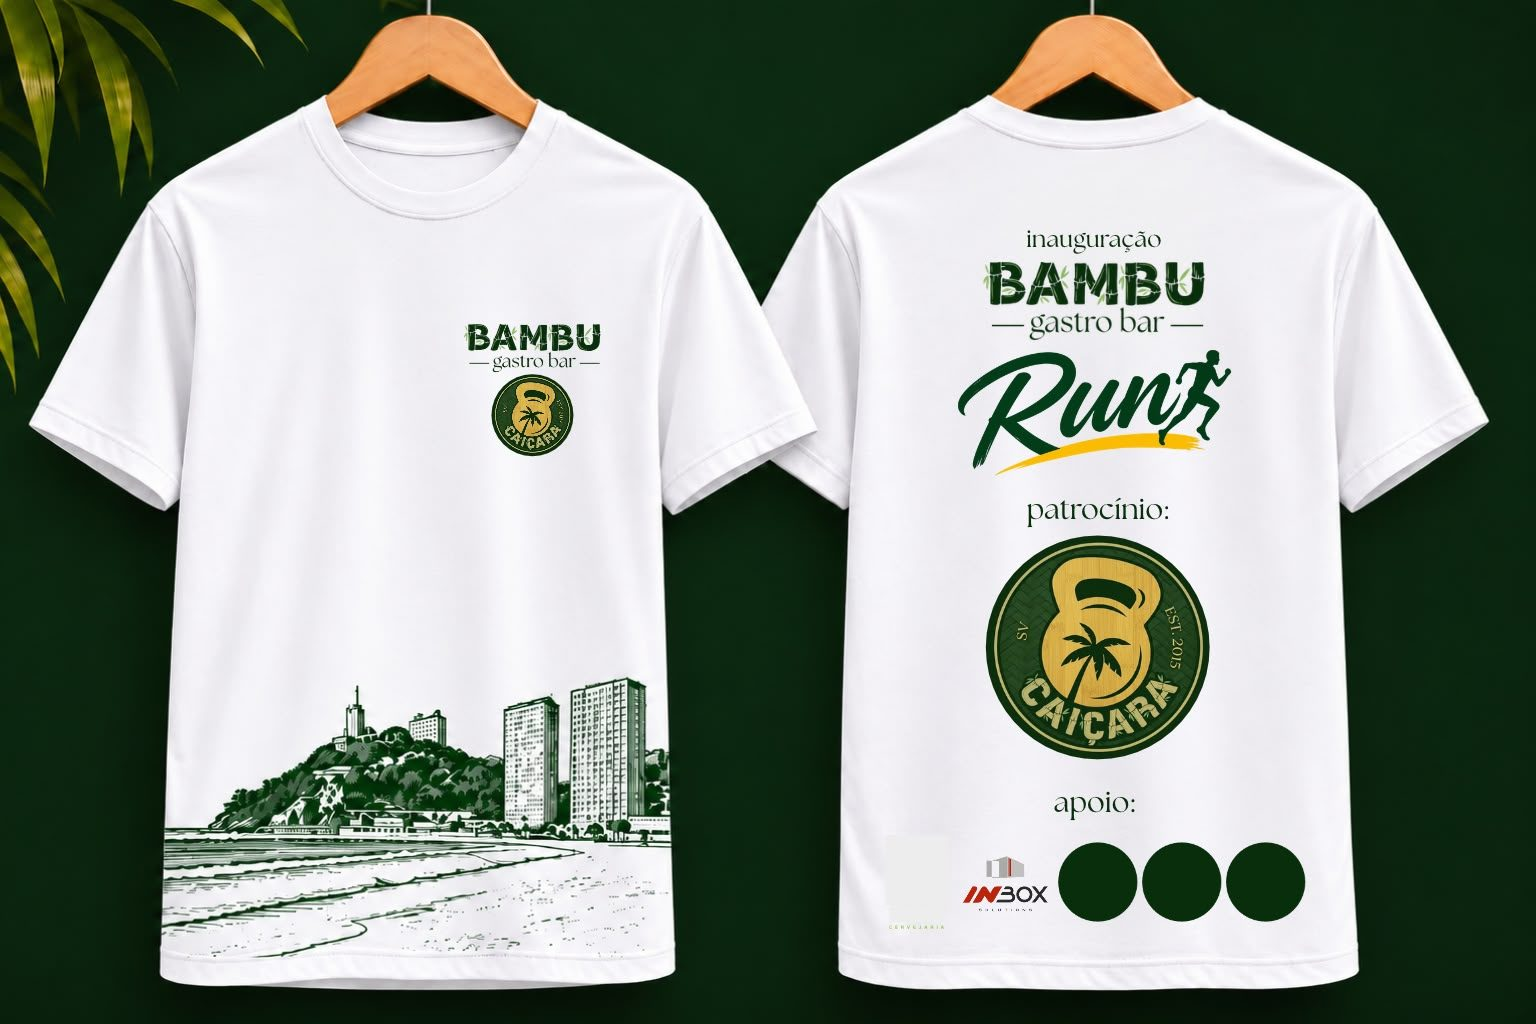
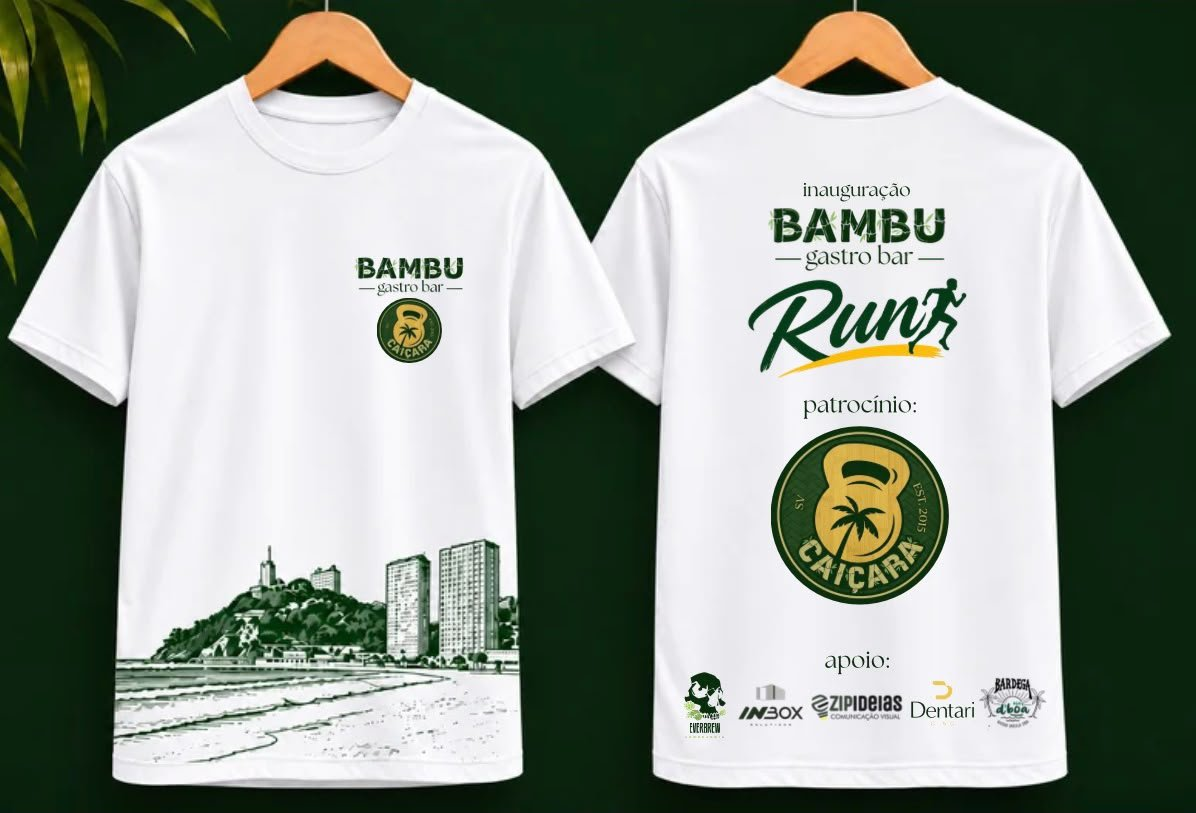
feat(bambu): endereço, pagode na chegada, estoque e medidas da camiseta, apoiadores
Quiosque 47B da Av. Ayrton Senna com link pro mapa. Camiseta dry fit com etiqueta
de medidas; estoque P20 M30 G20 GG10 (pendente segura 2h), tamanho esgotado bloqueado.
Brinde: chope da Everbrew. Mockup novo e faixa de apoio com os 5 apoiadores.

diff --git a/src/app/bambu/page.tsx b/src/app/bambu/page.tsx
@@ -1,11 +1,24 @@
 import type { Metadata } from "next";
 import Image from "next/image";
 import { InscricaoBambuForm } from "@/components/bambu/InscricaoBambuForm";
-import { camisetaAberta, corridaBambu } from "@/lib/corrida-bambu";
+import { camisetaAberta, corridaBambu, disponiveis, listInscricoes, tamanhos } from "@/lib/corrida-bambu";
 import fotoCamiseta from "../../../public/images/bambu/camiseta.jpg";
 import logoBambu from "../../../public/images/bambu/logo-bambu-gastro.png";
 import fotoNoite from "../../../public/images/bambu/noite.jpg";
 import logoCaicara from "../../../public/images/logo.png";
+import apoioBardega from "../../../public/images/bambu/apoio-bardega.png";
+import apoioDentari from "../../../public/images/bambu/apoio-dentari.png";
+import apoioEverbrew from "../../../public/images/bambu/apoio-everbrew.png";
+import apoioInbox from "../../../public/images/bambu/apoio-inbox.png";
+import apoioZip from "../../../public/images/bambu/apoio-zipideias.png";
+
+const APOIO = [
+  { src: apoioEverbrew, alt: "Everbrew Cervejaria" },
+  { src: apoioInbox, alt: "Inbox Solutions" },
+  { src: apoioZip, alt: "Zip Ideias Comunicação Visual" },
+  { src: apoioDentari, alt: "Dentari Clinic" },
+  { src: apoioBardega, alt: "Quiosque Bardega D'Boa" },
+];
 
 // A venda da camiseta depende do preço, do Pix e da data: confere a cada visita.
 export const dynamic = "force-dynamic";
@@ -13,27 +26,28 @@ export const dynamic = "force-dynamic";
 export const metadata: Metadata = {
   title: "Corrida de inauguração do Bambu Gastro Bar | Inscrição grátis",
   description:
-    "Corrida leve de inauguração do Bambu Gastro Bar com a Caiçara Fit: sexta, 27/11, às 20h, no Itararé, em São Vicente. Grátis, é só se inscrever.",
+    "Corrida leve de inauguração do Bambu Gastro Bar com a Caiçara Fit: sexta, 27/11, às 20h, Av. Ayrton Senna, quiosque 47B, Itararé, São Vicente. Grátis, com pagode do Luty RJ na chegada.",
   alternates: { canonical: "/bambu" },
   openGraph: {
     type: "website",
     locale: "pt_BR",
     url: "/bambu",
     title: "Corrida de inauguração do Bambu Gastro Bar",
-    description: "Sexta, 27/11, 20h, no Itararé. Grátis. Corre com a Caiçara Fit e fica pra festa.",
+    description: "Sexta, 27/11, 20h, quiosque 47B do Itararé. Grátis, com pagode na chegada.",
     images: [{ url: "/images/bambu/noite.jpg", width: 1200, height: 1600, alt: "Bambu lotado à noite, de frente pro mar" }],
   },
 };
 
 // Cores do Bambu Gastro Bar: verde-mata #09300b (fundo do logo), amarelo do bambu #f0c94c,
 // verde-folha #8dbb55, creme #fdf3c4. A pulseira de evento é o elemento que marca a página.
-const PULSEIRA = ["Grátis", "Sexta 27/11", "20h", "Itararé"];
+const PULSEIRA = ["Grátis", "Sexta 27/11", "20h", "Quiosque 47B", "Pagode na chegada"];
 
-export default function BambuPage() {
-  const { dateLabel, hora, local, percurso } = corridaBambu;
+export default async function BambuPage() {
+  const { dateLabel, hora, local, mapa, chegada, percurso } = corridaBambu;
   const quando = `${dateLabel}, às ${hora}`;
-  const { valor, pedidoAteLabel } = corridaBambu.camiseta;
+  const { valor, pedidoAteLabel, tecido, brinde, medidas } = corridaBambu.camiseta;
   const vendendo = camisetaAberta() && valor !== null;
+  const livres = disponiveis(await listInscricoes());
 
   return (
     <div className="overflow-x-clip bg-[#09300b] text-[#fdf3c4]">
@@ -48,8 +62,8 @@ export default function BambuPage() {
           </h1>
           <p className="mt-4 font-heading text-3xl font-semibold text-[#f0c94c]">{quando}</p>
           <p className="mt-4 max-w-md text-lg leading-relaxed text-[#fdf3c4]/85">
-            Uma corrida leve pra abrir a unidade nova do Bambu Gastro Bar, no Itararé. Cada um no seu ritmo. Depois,
-            a festa continua lá.
+            Uma corrida leve pra abrir a unidade nova do Bambu Gastro Bar, no Itararé. Cada um no seu ritmo. Na
+            chegada, tem pagode do Luty RJ.
           </p>
           <a
             href="#inscricao"
@@ -72,7 +86,7 @@ export default function BambuPage() {
           ))}
         </div>
       </div>
-      <p className="sr-only">Grátis, sexta 27/11, às 20h, no Itararé.</p>
+      <p className="sr-only">Grátis, sexta 27/11, às 20h, no quiosque 47B do Itararé, com pagode na chegada.</p>
 
       {/* O que a pessoa precisa saber. */}
       <section className="px-4 pb-14 pt-16">
@@ -81,7 +95,17 @@ export default function BambuPage() {
             <Linha nome="Quando" valor={quando} />
             <Linha nome="Quanto" valor="Grátis" />
             <Linha nome="Ritmo" valor="O seu" />
-            {local ? <Linha nome="Onde" valor={local} /> : null}
+            {chegada ? <Linha nome="Chegada" valor={chegada} /> : null}
+            {local ? (
+              <div className="flex items-baseline justify-between gap-4 py-4">
+                <dt className="font-heading text-xl">Onde</dt>
+                <dd className="text-right font-heading text-xl font-semibold">
+                  <a href={mapa} target="_blank" rel="noopener noreferrer" className="text-[#f0c94c] underline decoration-2 underline-offset-4">
+                    {local}
+                  </a>
+                </dd>
+              </div>
+            ) : null}
             {percurso ? <Linha nome="Percurso" valor={percurso} /> : null}
           </dl>
           <figure>
@@ -101,19 +125,50 @@ export default function BambuPage() {
         </div>
       </section>
 
-      {/* A camiseta do evento. */}
+      {/* A camiseta do evento: a etiqueta de tamanho é o elemento que se lê de perto. */}
       <section className="px-4 pb-16">
         <div className="mx-auto max-w-2xl">
           <h2 className="font-heading text-4xl font-bold uppercase leading-none">Tem camiseta</h2>
           <p className="mt-3 max-w-md text-lg text-[#fdf3c4]/85">
-            Branca, com o Bambu na frente e a orla de São Vicente embaixo. P, M, G e GG, pedido até {pedidoAteLabel}.
+            {tecido}, branca, com o Bambu na frente e a orla de São Vicente embaixo. Pedido até {pedidoAteLabel}, retira no
+            dia da corrida.
           </p>
-          <div className="relative mt-6 overflow-hidden rounded-3xl border-4 border-[#f0c94c]">
-            <Image src={fotoCamiseta} alt="Camiseta da corrida, frente e costas" sizes="(max-width: 672px) 100vw, 672px" className="h-auto w-full" />
+          <div className="mt-6 overflow-hidden rounded-3xl border-4 border-[#f0c94c]">
+            <Image src={fotoCamiseta} alt="Camiseta da corrida, frente e costas, com os apoiadores" sizes="(max-width: 672px) 100vw, 672px" className="h-auto w-full" />
           </div>
-          <p className="mt-4 font-heading text-2xl font-semibold text-[#f0c94c]">
+
+          {/* Etiqueta de roupa: costura tracejada, tamanho e medidas. */}
+          <div className="relative mx-auto mt-8 max-w-md -rotate-1 rounded-md bg-[#fdf3c4] p-2 text-[#09300b] shadow-[0_10px_0_rgba(0,0,0,0.3)]">
+            <div className="rounded border-2 border-dashed border-[#09300b]/50 px-4 pb-4 pt-3">
+              <p className="text-center font-heading text-2xl font-bold uppercase">Medidas</p>
+              <p className="text-center text-sm">Em cm, peça na mesa: comprimento × largura.</p>
+              <table className="mt-3 w-full text-left">
+                <caption className="sr-only">Tamanhos da camiseta, medidas e quantas ainda tem</caption>
+                <tbody>
+                  {tamanhos.map((t) => (
+                    <tr key={t} className="border-t border-[#09300b]/20">
+                      <th scope="row" className="w-14 py-2 font-heading text-2xl font-bold">
+                        {t}
+                      </th>
+                      <td className="py-2 font-heading text-xl tabular-nums">
+                        {medidas[t][0]} × {medidas[t][1]}
+                      </td>
+                      <td className="py-2 text-right text-sm font-semibold">
+                        {livres[t] === 0 ? <span className="text-red-700">esgotou</span> : livres[t] <= 5 ? `últimas ${livres[t]}` : null}
+                      </td>
+                    </tr>
+                  ))}
+                </tbody>
+              </table>
+            </div>
+          </div>
+
+          <p className="mt-8 font-heading text-2xl font-semibold text-[#f0c94c]">
             {vendendo ? `R$ ${valor}, no Pix ou no cartão (1x). Pede junto com a inscrição.` : "Venda abre em breve, aqui nesta página."}
           </p>
+          {brinde ? (
+            <p className="mt-2 font-[family-name:var(--font-marker)] text-xl text-[#8dbb55]">quem compra a camiseta ganha {brinde}</p>
+          ) : null}
         </div>
       </section>
 
@@ -124,7 +179,7 @@ export default function BambuPage() {
           <p className="mt-2 text-lg">{vendendo ? "Nome e WhatsApp. A camiseta é opcional." : "Nome e WhatsApp. Só isso."}</p>
           <div className="mt-6">
             {corridaBambu.inscricoesAbertas ? (
-              <InscricaoBambuForm quando={quando} camiseta={vendendo ? { valor, pedidoAte: pedidoAteLabel } : null} />
+              <InscricaoBambuForm quando={quando} camiseta={vendendo ? { valor, pedidoAte: pedidoAteLabel, livres } : null} />
             ) : (
               <p className="rounded-3xl border-2 border-[#09300b] bg-[#fdf3c4] p-6 font-heading text-2xl font-bold uppercase">
                 Inscrições encerradas
@@ -134,12 +189,24 @@ export default function BambuPage() {
         </div>
       </section>
 
-      {/* Quem faz. */}
-      <section className="px-4 py-10">
+      {/* Quem faz e quem apoia. */}
+      <section className="px-4 pt-12">
         <div className="mx-auto flex max-w-2xl items-center justify-center gap-6">
           <Image src={logoCaicara} alt="Caiçara Fit" className="h-14 w-auto" />
           <span className="font-[family-name:var(--font-marker)] text-2xl text-[#8dbb55]">+</span>
           <Image src={logoBambu} alt="Bambu Gastro Bar" className="h-14 w-auto" />
+        </div>
+      </section>
+      <section className="px-4 pb-12 pt-8">
+        <div className="mx-auto max-w-2xl rounded-3xl bg-white px-5 py-6">
+          <h2 className="text-center font-heading text-2xl font-bold uppercase text-[#09300b]">Apoio</h2>
+          <ul className="mt-4 grid grid-cols-3 items-center gap-x-4 gap-y-5 sm:grid-cols-5">
+            {APOIO.map((item) => (
+              <li key={item.alt} className="flex h-16 items-center justify-center">
+                <Image src={item.src} alt={item.alt} sizes="120px" className="max-h-16 w-auto object-contain" />
+              </li>
+            ))}
+          </ul>
         </div>
       </section>
     </div>

diff --git a/src/components/bambu/InscricaoBambuForm.tsx b/src/components/bambu/InscricaoBambuForm.tsx
@@ -20,7 +20,7 @@ type Cobranca = { forma: Forma; paymentId: string; invoiceUrl: string; qrCodeIma
 type Props = {
   quando: string;
   /** null = camiseta não está à venda agora. */
-  camiseta: { valor: number; pedidoAte: string } | null;
+  camiseta: { valor: number; pedidoAte: string; livres: Record<string, number> } | null;
 };
 
 export function InscricaoBambuForm({ quando, camiseta }: Props) {
@@ -121,14 +121,25 @@ export function InscricaoBambuForm({ quando, camiseta }: Props) {
           {querCamiseta ? (
             <>
               <p className="text-base">
-                <strong>R$ {camiseta.valor}</strong>, no Pix ou no cartão (1x). Pedido até {camiseta.pedidoAte}. Retira no dia da corrida.
+                <strong>R$ {camiseta.valor}</strong>, no Pix ou no cartão (1x). Dry fit, medidas na etiqueta lá em cima. Pedido até {camiseta.pedidoAte}, retira no dia da corrida e ganha um chope da Everbrew.
               </p>
               <div className="grid grid-cols-4 gap-2" role="group" aria-label="Tamanho">
-                {TAMANHOS.map((t) => (
-                  <button key={t} type="button" aria-pressed={tamanho === t} onClick={() => setTamanho(t)} className={`${OPCAO} ${tamanho === t ? OPCAO_ON : OPCAO_OFF}`}>
-                    {t}
-                  </button>
-                ))}
+                {TAMANHOS.map((t) => {
+                  const esgotou = (camiseta.livres[t] ?? 0) < 1;
+                  return (
+                    <button
+                      key={t}
+                      type="button"
+                      disabled={esgotou}
+                      aria-pressed={tamanho === t}
+                      aria-label={esgotou ? `${t}, esgotou` : t}
+                      onClick={() => setTamanho(t)}
+                      className={`${OPCAO} ${tamanho === t ? OPCAO_ON : OPCAO_OFF} disabled:cursor-not-allowed disabled:border-dashed disabled:bg-transparent disabled:text-[#09300b]/40 disabled:line-through disabled:shadow-none`}
+                    >
+                      {t}
+                    </button>
+                  );
+                })}
               </div>
               <div className="grid grid-cols-2 gap-3" role="group" aria-label="Pagamento">
                 {(["pix", "cartao"] as const).map((f) => (

diff --git a/src/lib/corrida-bambu.ts b/src/lib/corrida-bambu.ts
@@ -12,7 +12,9 @@ export const corridaBambu = {
   dateLabel: "Sexta, 27/11",
   hora: "20h",
   // null = a página não mostra a linha.
-  local: "Itararé, São Vicente" as string | null, // endereço exato da unidade nova: Gabriel manda
+  local: "Av. Ayrton Senna, quiosque 47B, Itararé" as string | null, // Gabriel, 19/11
+  mapa: "https://www.google.com/maps/search/?api=1&query=Av.+Ayrton+Senna+quiosque+47B+Itarar%C3%A9+S%C3%A3o+Vicente+SP",
+  chegada: "Pagode do Luty RJ", // na chegada da corrida (Gabriel, 19/11)
   percurso: null as string | null,
   inscricoesAbertas: true,
   // Camiseta do evento (Gabriel, 17/11): vendida pelo site, Pix na conta ASAAS_*.
@@ -25,6 +27,11 @@ export const corridaBambu = {
     },
     pedidoAte: "2026-11-24", // último dia de pedido, horário de São Paulo
     pedidoAteLabel: "24/11",
+    tecido: "Dry fit",
+    brinde: "um chope da Everbrew", // quem compra a camiseta ganha (Gabriel, 19/11)
+    // Estoque do fornecedor (Gabriel, 19/11). Medidas em cm, tabela do fornecedor.
+    estoque: { P: 20, M: 30, G: 20, GG: 10 } as Record<"P" | "M" | "G" | "GG", number>,
+    medidas: { P: [70, 50], M: [72, 52], G: [74, 56], GG: [76, 59] } as Record<"P" | "M" | "G" | "GG", [number, number]>,
   },
 };
 
@@ -108,6 +115,20 @@ export async function listInscricoes(): Promise<InscricaoBambu[]> {
   } catch {
     return [];
   }
+}
+
+// Pedido com pagamento pendente segura a camiseta por 2 horas; pago segura sempre.
+const RESERVA_MS = 2 * 60 * 60 * 1000;
+
+/** Quantas camisetas ainda dá pra vender de cada tamanho (estoque − pagas − pendentes recentes). */
+export function disponiveis(lista: InscricaoBambu[], agora = Date.now()): Record<Tamanho, number> {
+  const livres = { ...corridaBambu.camiseta.estoque };
+  for (const i of lista) {
+    if (!i.camiseta) continue;
+    if (i.pixPago || agora - Date.parse(i.criadoEm) < RESERVA_MS) livres[i.camiseta] -= 1;
+  }
+  for (const t of tamanhos) livres[t] = Math.max(0, livres[t]);
+  return livres;
 }
 
 /** Camisetas pagas por tamanho, para o pedido ao fornecedor. */

diff --git a/src/lib/corrida-bambu.test.ts b/src/lib/corrida-bambu.test.ts
@@ -1,5 +1,5 @@
 import { describe, expect, it } from "vitest";
-import { contarCamisetas, juntarInscricoes } from "@/lib/corrida-bambu";
+import { contarCamisetas, disponiveis, juntarInscricoes } from "@/lib/corrida-bambu";
 
 const linha = (o: object) => JSON.stringify(o);
 
@@ -32,5 +32,20 @@ describe("contarCamisetas", () => {
       { nome: "c", whatsapp: "3", criadoEm: "" },
     ]);
     expect(r).toEqual({ pagas: { P: 0, M: 1, G: 0, GG: 0 }, aguardando: 1 });
+  });
+});
+
+describe("disponiveis", () => {
+  const agora = Date.parse("2026-11-20T12:00:00Z");
+  it("desconta pagas e pendentes de até 2h; pendente velho libera", () => {
+    const r = disponiveis(
+      [
+        { nome: "a", whatsapp: "1", criadoEm: "2026-11-19T12:00:00Z", camiseta: "GG", pixPago: true },
+        { nome: "b", whatsapp: "2", criadoEm: "2026-11-20T11:30:00Z", camiseta: "GG" },
+        { nome: "c", whatsapp: "3", criadoEm: "2026-11-20T08:00:00Z", camiseta: "GG" },
+      ],
+      agora,
+    );
+    expect(r).toEqual({ P: 20, M: 30, G: 20, GG: 8 });
   });
 });

diff --git a/src/app/api/corrida-bambu/route.ts b/src/app/api/corrida-bambu/route.ts
@@ -3,6 +3,7 @@ import {
   camisetaAberta,
   corridaBambu,
   criarCobrancaCamiseta,
+  disponiveis,
   formas,
   emFila,
   isValidCpf,
@@ -45,6 +46,14 @@ export async function POST(request: Request) {
   const cpf = typeof body.cpf === "string" ? body.cpf : "";
   if (camiseta && !isValidCpf(cpf)) {
     return NextResponse.json({ error: "Confere o CPF. Ele é pedido só para gerar a cobrança." }, { status: 400 });
+  }
+
+  // Mesmo WhatsApp pedindo de novo não conta contra ele mesmo.
+  if (camiseta) {
+    const outros = (await listInscricoes()).filter((i) => i.whatsapp !== whatsapp);
+    if (disponiveis(outros)[camiseta] < 1) {
+      return NextResponse.json({ error: `Acabou a camiseta ${camiseta}. Escolhe outro tamanho.` }, { status: 409 });
+    }
   }
 
   let cobranca: CobrancaBambu | undefined;
